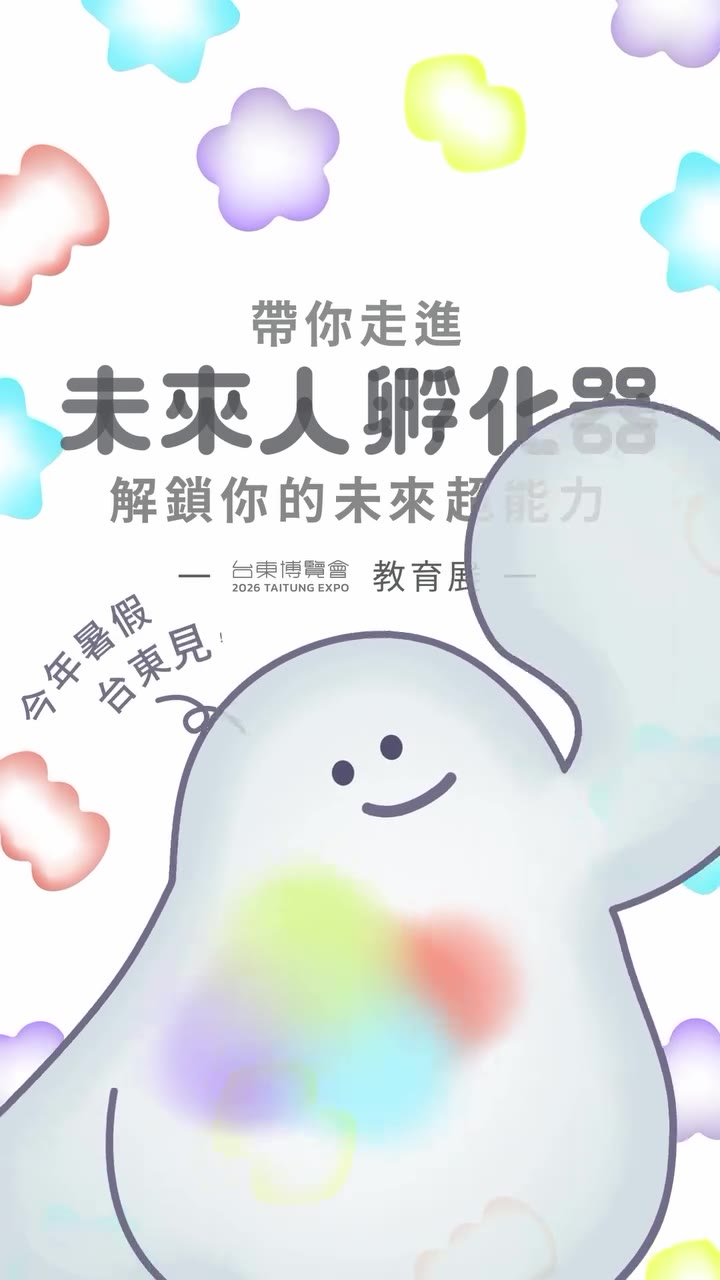
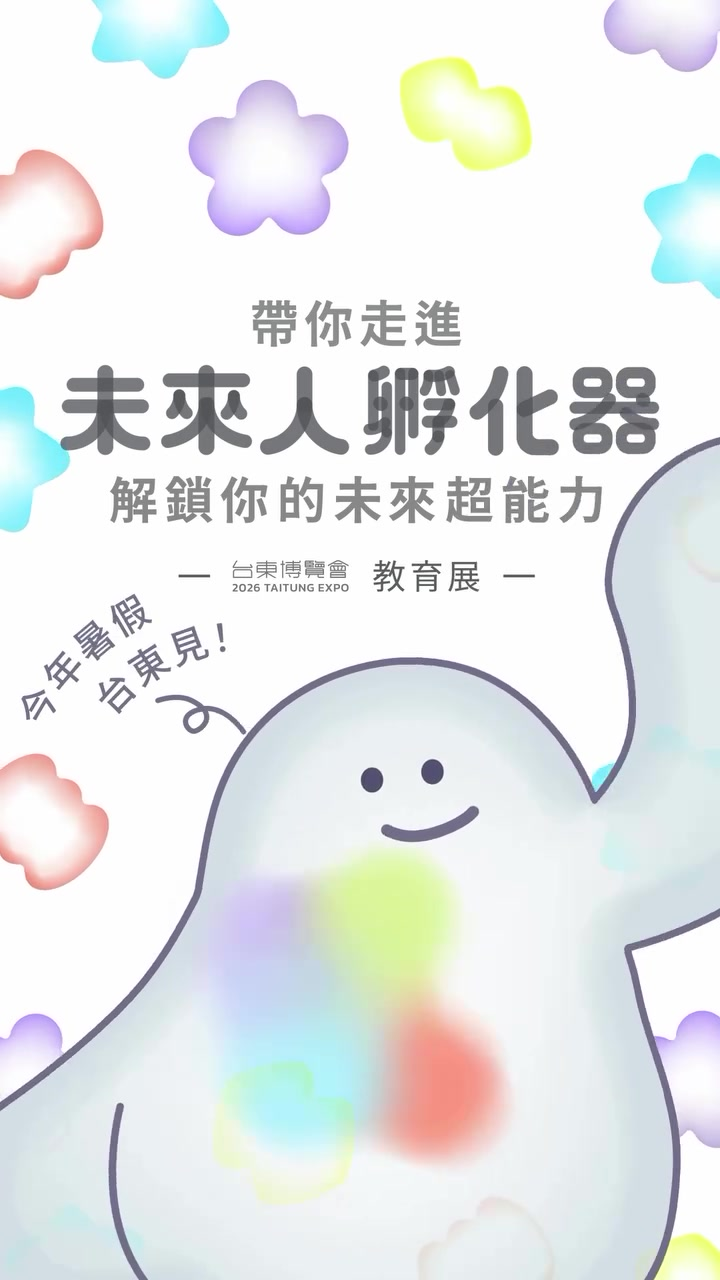
Taitung Expo 2026: cover from the end cut (title frame)
Claude-Session: https://claude.ai/code/session_01AzJxtJ17jjw42rGa6EsLWG

diff --git a/work/index.html b/work/index.html
@@ -49,7 +49,7 @@
          沒有案例頁的作品：href="#"，data-film="vimeo:編號" 會在本頁跳出影片；data-loop 是滑過時播的片段。影片來源見 notes/video-map.md -->
     <div class="work-grid dense tiles" id="work-list">
       <a class="card" href="taitung-expo-2026.html" data-tags="exhibition" data-loop="../videos/taitung-expo-2026/loop.mp4">
-        <div class="media ratio-16x9"><img src="../images/taitung-expo-2026-cover-960.jpg?v=2" alt="Taitung Expo 2026 未來人孵化器 畫面" loading="lazy"><div class="media-blur" aria-hidden="true" style="background-image:url('../images/taitung-expo-2026-cover-960.jpg?v=2')"></div></div>
+        <div class="media ratio-16x9"><img src="../images/taitung-expo-2026-cover-960.jpg?v=3" alt="Taitung Expo 2026 未來人孵化器 畫面" loading="lazy"><div class="media-blur" aria-hidden="true" style="background-image:url('../images/taitung-expo-2026-cover-960.jpg?v=3')"></div></div>
         <div class="card-cap"><div class="card-title"><div><h3>Taitung Expo 2026</h3><span class="zh">未來人孵化器 教育展 宣傳動畫</span></div><span class="mono muted">2026</span></div>
         <div class="tags"><span>展覽</span><span>JP Space</span></div></div>
       </a>
